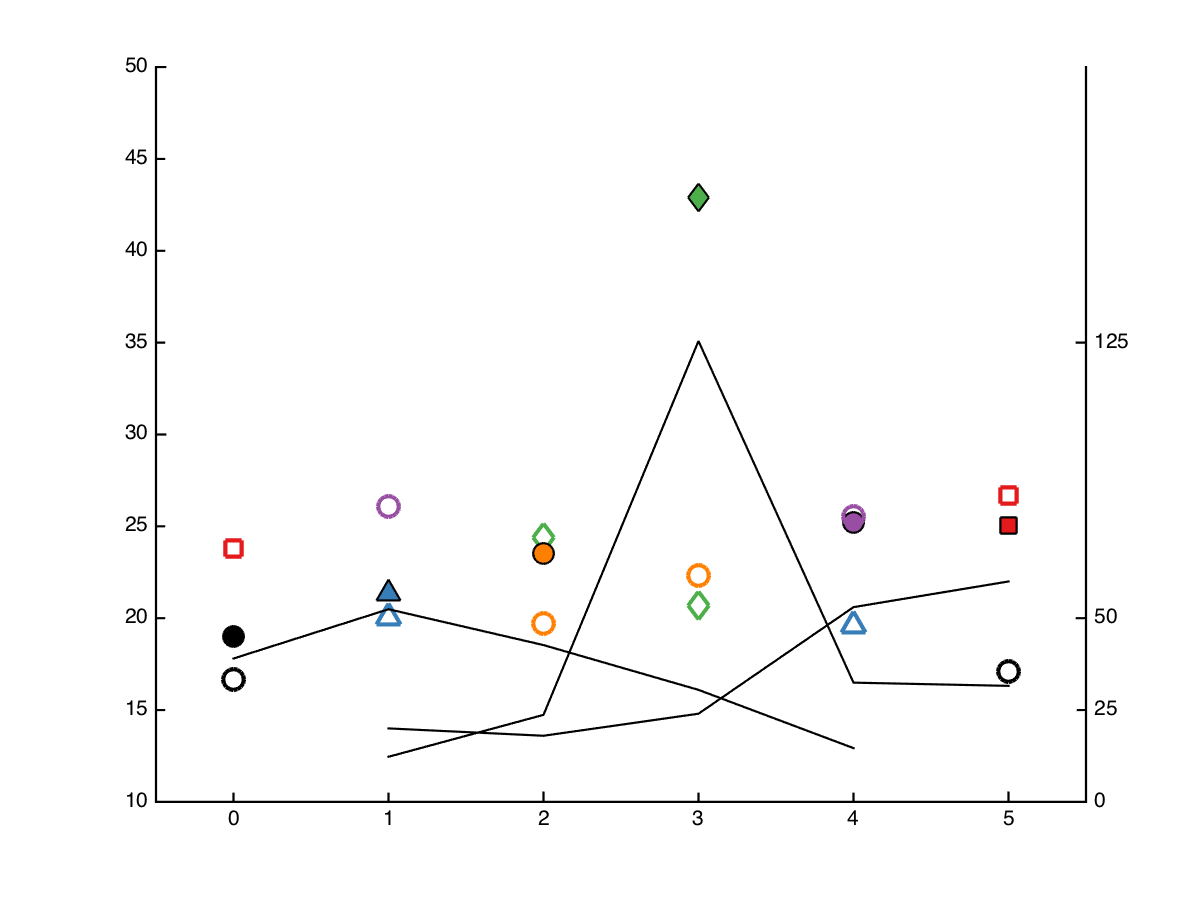
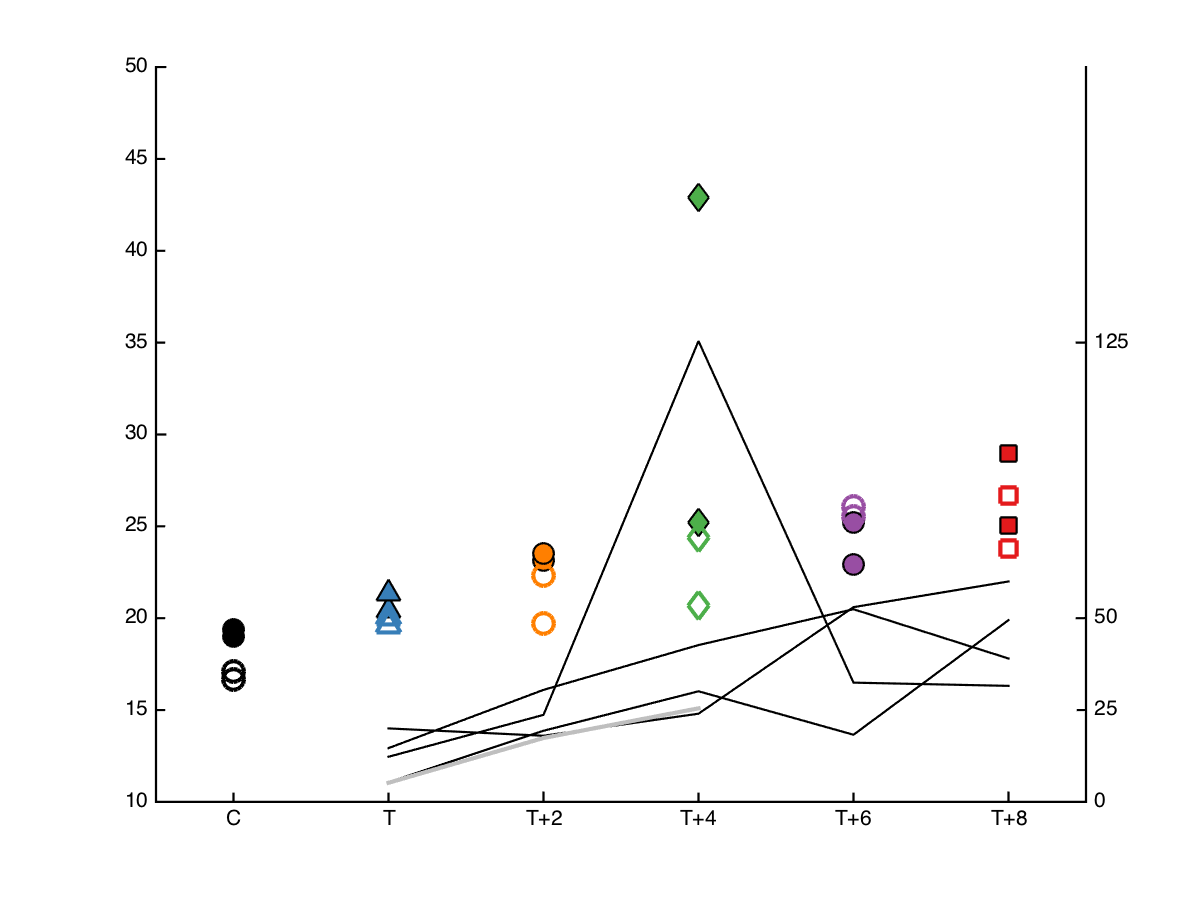
Plot improvements

diff --git a/DragLoadRelief_Plots.m b/DragLoadRelief_Plots.m
@@ -157,25 +157,25 @@ h4 = axes('Color','none','XColor','k','YColor','k',...
           'Yticklabels',{'0','25','50','125'},...
           'Yaxislocation','right','NextPlot','add');
 
-plot(h3,6,dur_load0,'ko','MarkerFaceColor','k','MarkerSize',10)
-plot(h3,7,dur_loadA,'k^','MarkerFaceColor',[55/255 126/255 184/255],'MarkerSize',10)
-plot(h3,8,dur_loadA1,'ko','MarkerFaceColor',[255/255 127/255 0/255],'MarkerSize',10)
-plot(h3,9,dur_loadA2,'kd','MarkerFaceColor',[77/255 175/255 74/255],'MarkerSize',10)
-plot(h3,10,dur_loadA3,'ko','MarkerFaceColor',[152/255 78/255 163/255],'MarkerSize',10)
-plot(h3,11,dur_loadA4,'ks','MarkerFaceColor',[228/255 26/255 28/255],'MarkerSize',10)
+plot(h3,0,dur_load0,'ko','MarkerFaceColor','k','MarkerSize',10)
+plot(h3,1,dur_loadA,'k^','MarkerFaceColor',[55/255 126/255 184/255],'MarkerSize',10)
+plot(h3,2,dur_loadA1,'ko','MarkerFaceColor',[255/255 127/255 0/255],'MarkerSize',10)
+plot(h3,3,dur_loadA2,'kd','MarkerFaceColor',[77/255 175/255 74/255],'MarkerSize',10)
+plot(h3,4,dur_loadA3,'ko','MarkerFaceColor',[152/255 78/255 163/255],'MarkerSize',10)
+plot(h3,5,dur_loadA4,'ks','MarkerFaceColor',[228/255 26/255 28/255],'MarkerSize',10)
 
-plot(h3,5,dur_remove0,'o','MarkerEdgeColor','k','MarkerSize',10,'LineWidth',2)
-plot(h3,4,dur_removeA,'^','MarkerEdgeColor',[55/255 126/255 184/255],'MarkerSize',10,'LineWidth',2)
-plot(h3,3,dur_removeA1,'o','MarkerEdgeColor',[255/255 127/255 0/255],'MarkerSize',10,'LineWidth',2)
-plot(h3,2,dur_removeA2,'d','MarkerEdgeColor',[77/255 175/255 74/255],'MarkerSize',10,'LineWidth',2)
-plot(h3,1,dur_removeA3,'o','MarkerEdgeColor',[152/255 78/255 163/255],'MarkerSize',10,'LineWidth',2)
-plot(h3,0,dur_removeA4,'s','MarkerEdgeColor',[228/255 26/255 28/255],'MarkerSize',10,'LineWidth',2)
+plot(h3,0,dur_remove0,'o','MarkerEdgeColor','k','MarkerSize',10,'LineWidth',2)
+plot(h3,1,dur_removeA,'^','MarkerEdgeColor',[55/255 126/255 184/255],'MarkerSize',10,'LineWidth',2)
+plot(h3,2,dur_removeA1,'o','MarkerEdgeColor',[255/255 127/255 0/255],'MarkerSize',10,'LineWidth',2)
+plot(h3,3,dur_removeA2,'d','MarkerEdgeColor',[77/255 175/255 74/255],'MarkerSize',10,'LineWidth',2)
+plot(h3,4,dur_removeA3,'o','MarkerEdgeColor',[152/255 78/255 163/255],'MarkerSize',10,'LineWidth',2)
+plot(h3,5,dur_removeA4,'s','MarkerEdgeColor',[228/255 26/255 28/255],'MarkerSize',10,'LineWidth',2)
 
-plot(h4,7:11,[p0A p0A1 p0A2 p0A3 p0A4],'k')
-plot(h4,0:4,[pA40 pA30 pA20 pA10 pA0],'k')
+plot(h4,1:5,[p0A p0A1 p0A2 p0A3 p0A4],'k')
+plot(h4,5:-1:1,[pA40 pA30 pA20 pA10 pA0],'k')
 
 %% Kolohe
-keep h1 h2 h3 h4; load('Kolohe_DradLoadRelief');
+keep h1 h2 h3 h4 p0t p0t2 p0t4; load('Kolohe_DradLoadRelief');
 
 % calculate durations of loadings
 dur_load0 = load0(end,1)-load0(1,1);
@@ -252,6 +252,10 @@ plot(h3,5,dur_removeA4,'s','MarkerEdgeColor',[228/255 26/255 28/255],'MarkerSize
 
 plot(h4,1:5,[p0A p0A1 p0A2 p0A3 p0A4],'k')
 plot(h4,5:-1:1,[pA40 pA30 pA20 pA10 pA0],'k')
+
+plot(h4,1:3,[p0t p0t2 p0t4],'color',[0.75 0.75 0.75],'LineWidth',2)
+
+set(gca,'xticklabels',{'C','T','T+2','T+4','T+6','T+8'})
 
 print -dpng LoadReliefSpeed_2
 

diff --git a/SlowDown_dolphins2013.m b/SlowDown_dolphins2013.m
@@ -38,6 +38,7 @@ plot(Ured_tag2,c_tag2(1)*Ured_tag2.^c_tag2(2),'ko','markerfacecolor',[255/255 12
 plot(Ured_tag,c_tag(1)*Ured_tag.^c_tag(2),'k^','markerfacecolor',[55/255 126/255 184/255])
 plot(vel(3),notag(3),'ko','markerfacecolor','k')
 
+print('CFDresults','-dpng','-r300')
 
 % calculate percent decrease
 p0t = (abs(Ured_tag-3)/3);
